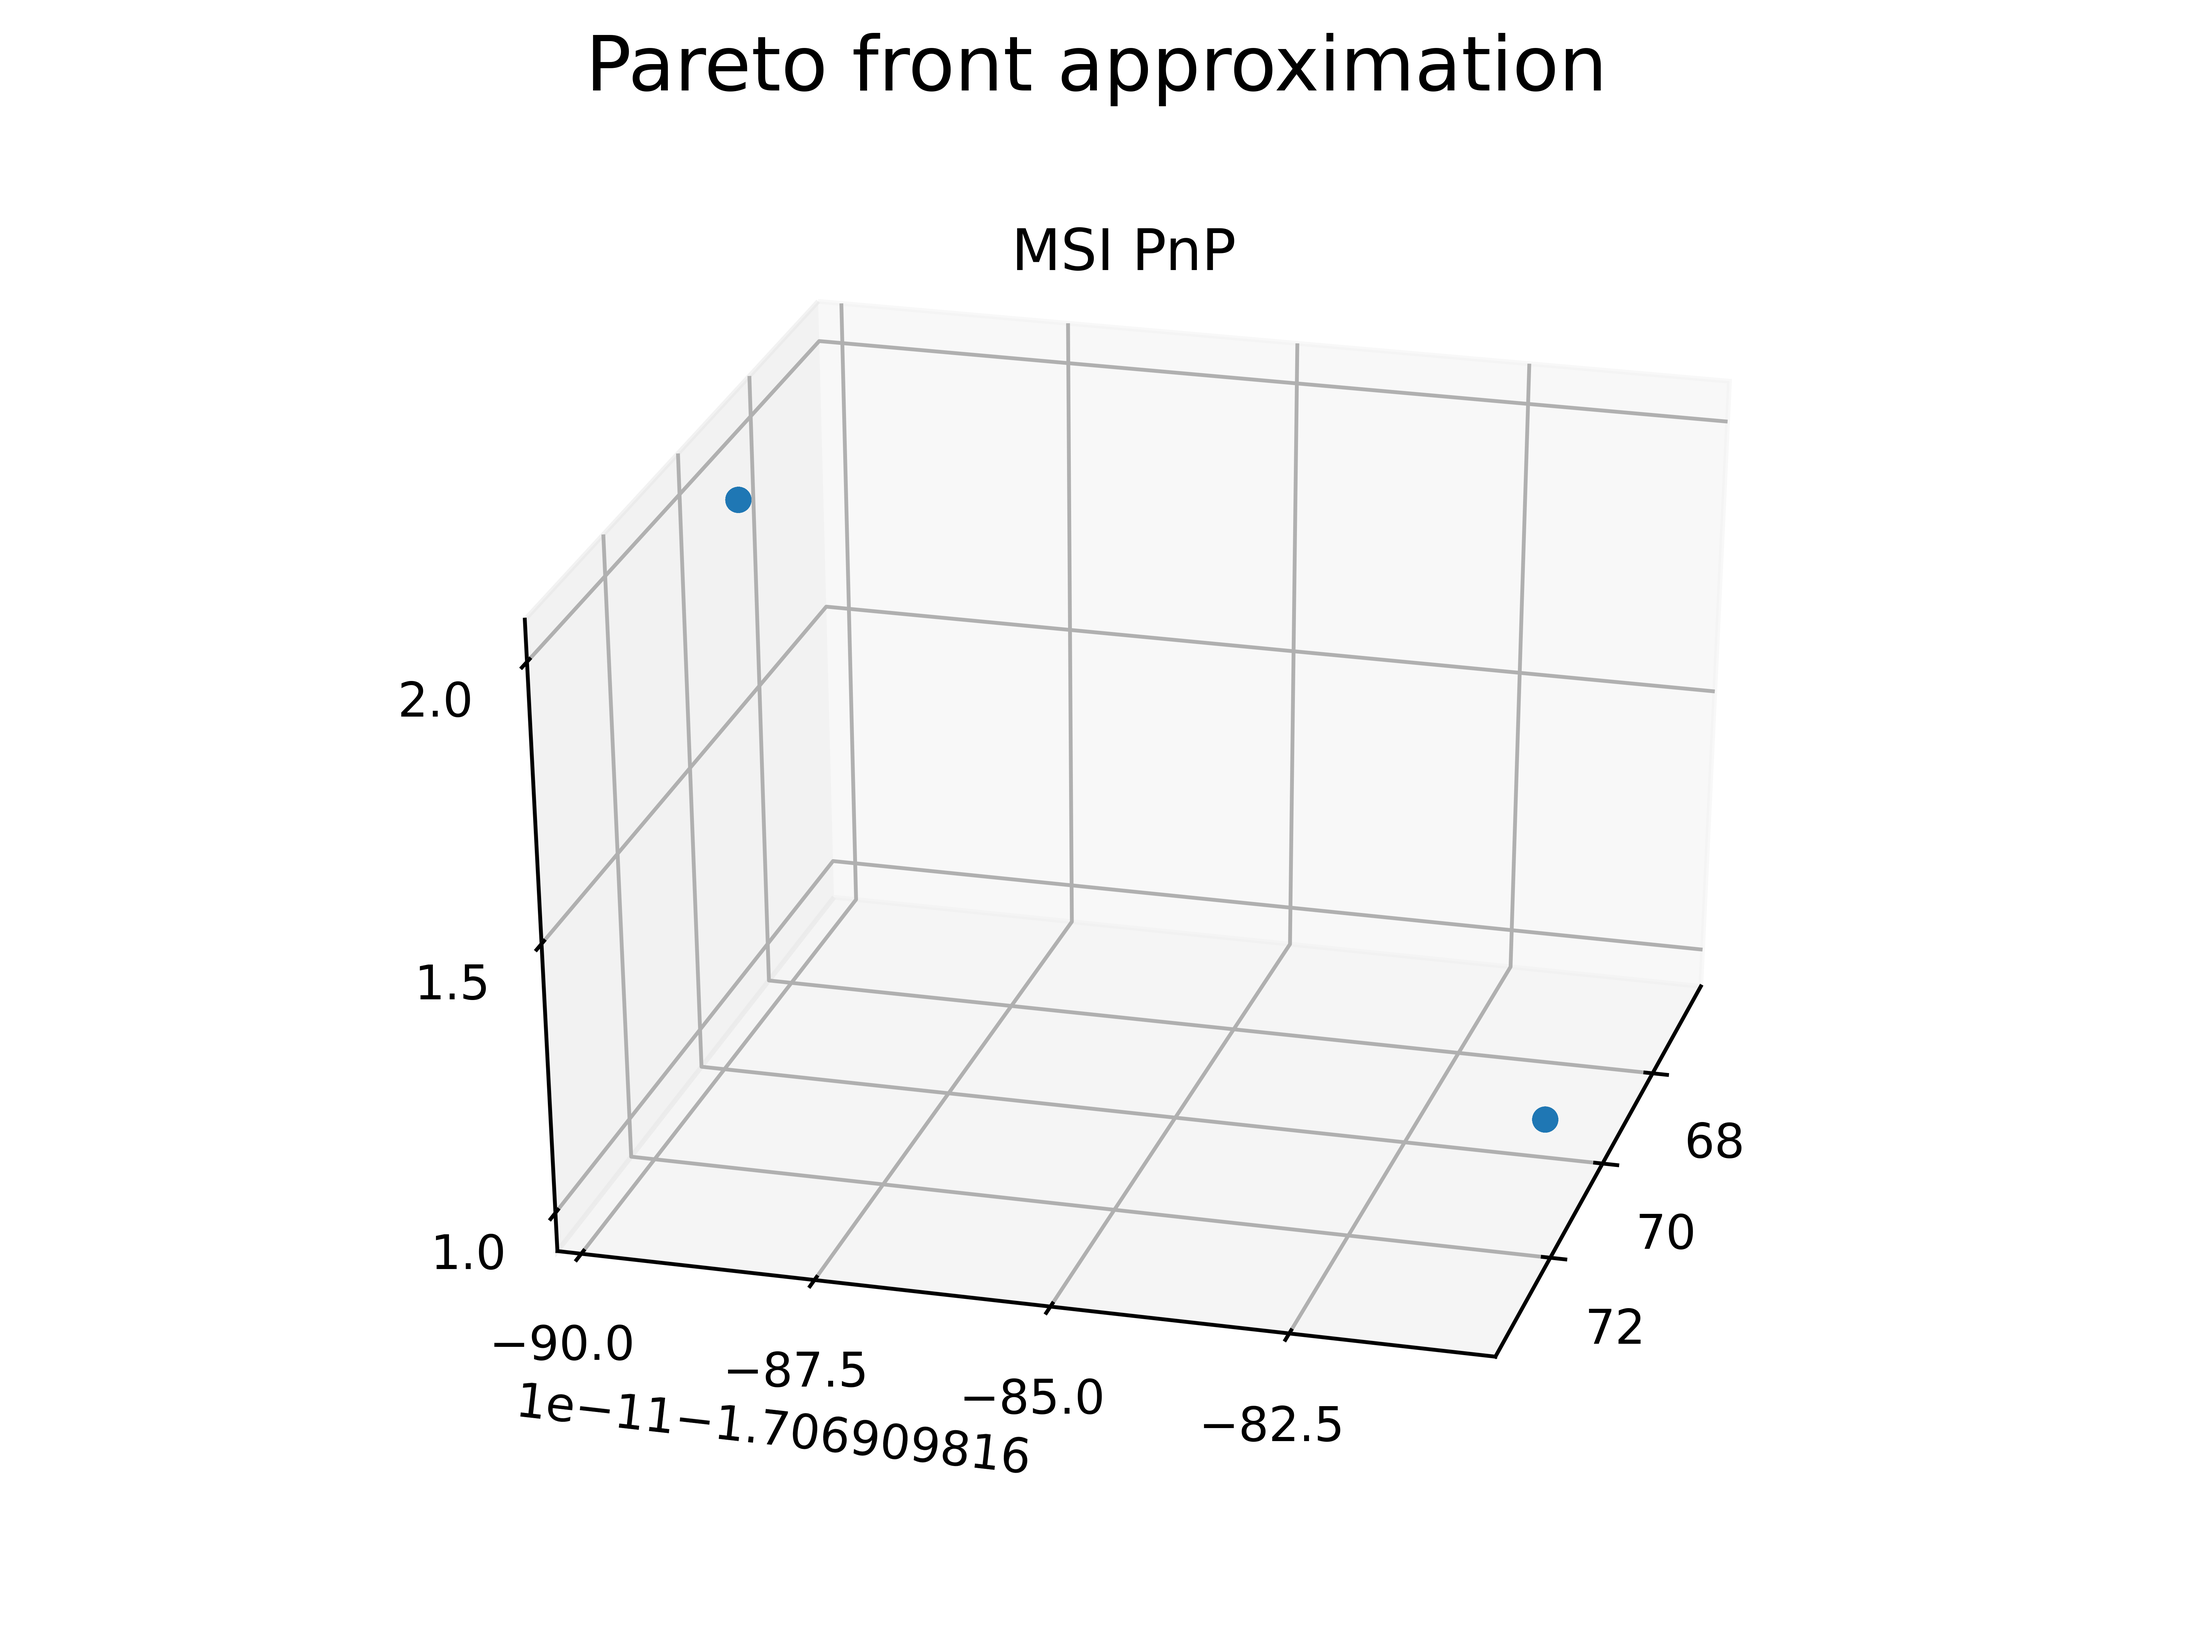
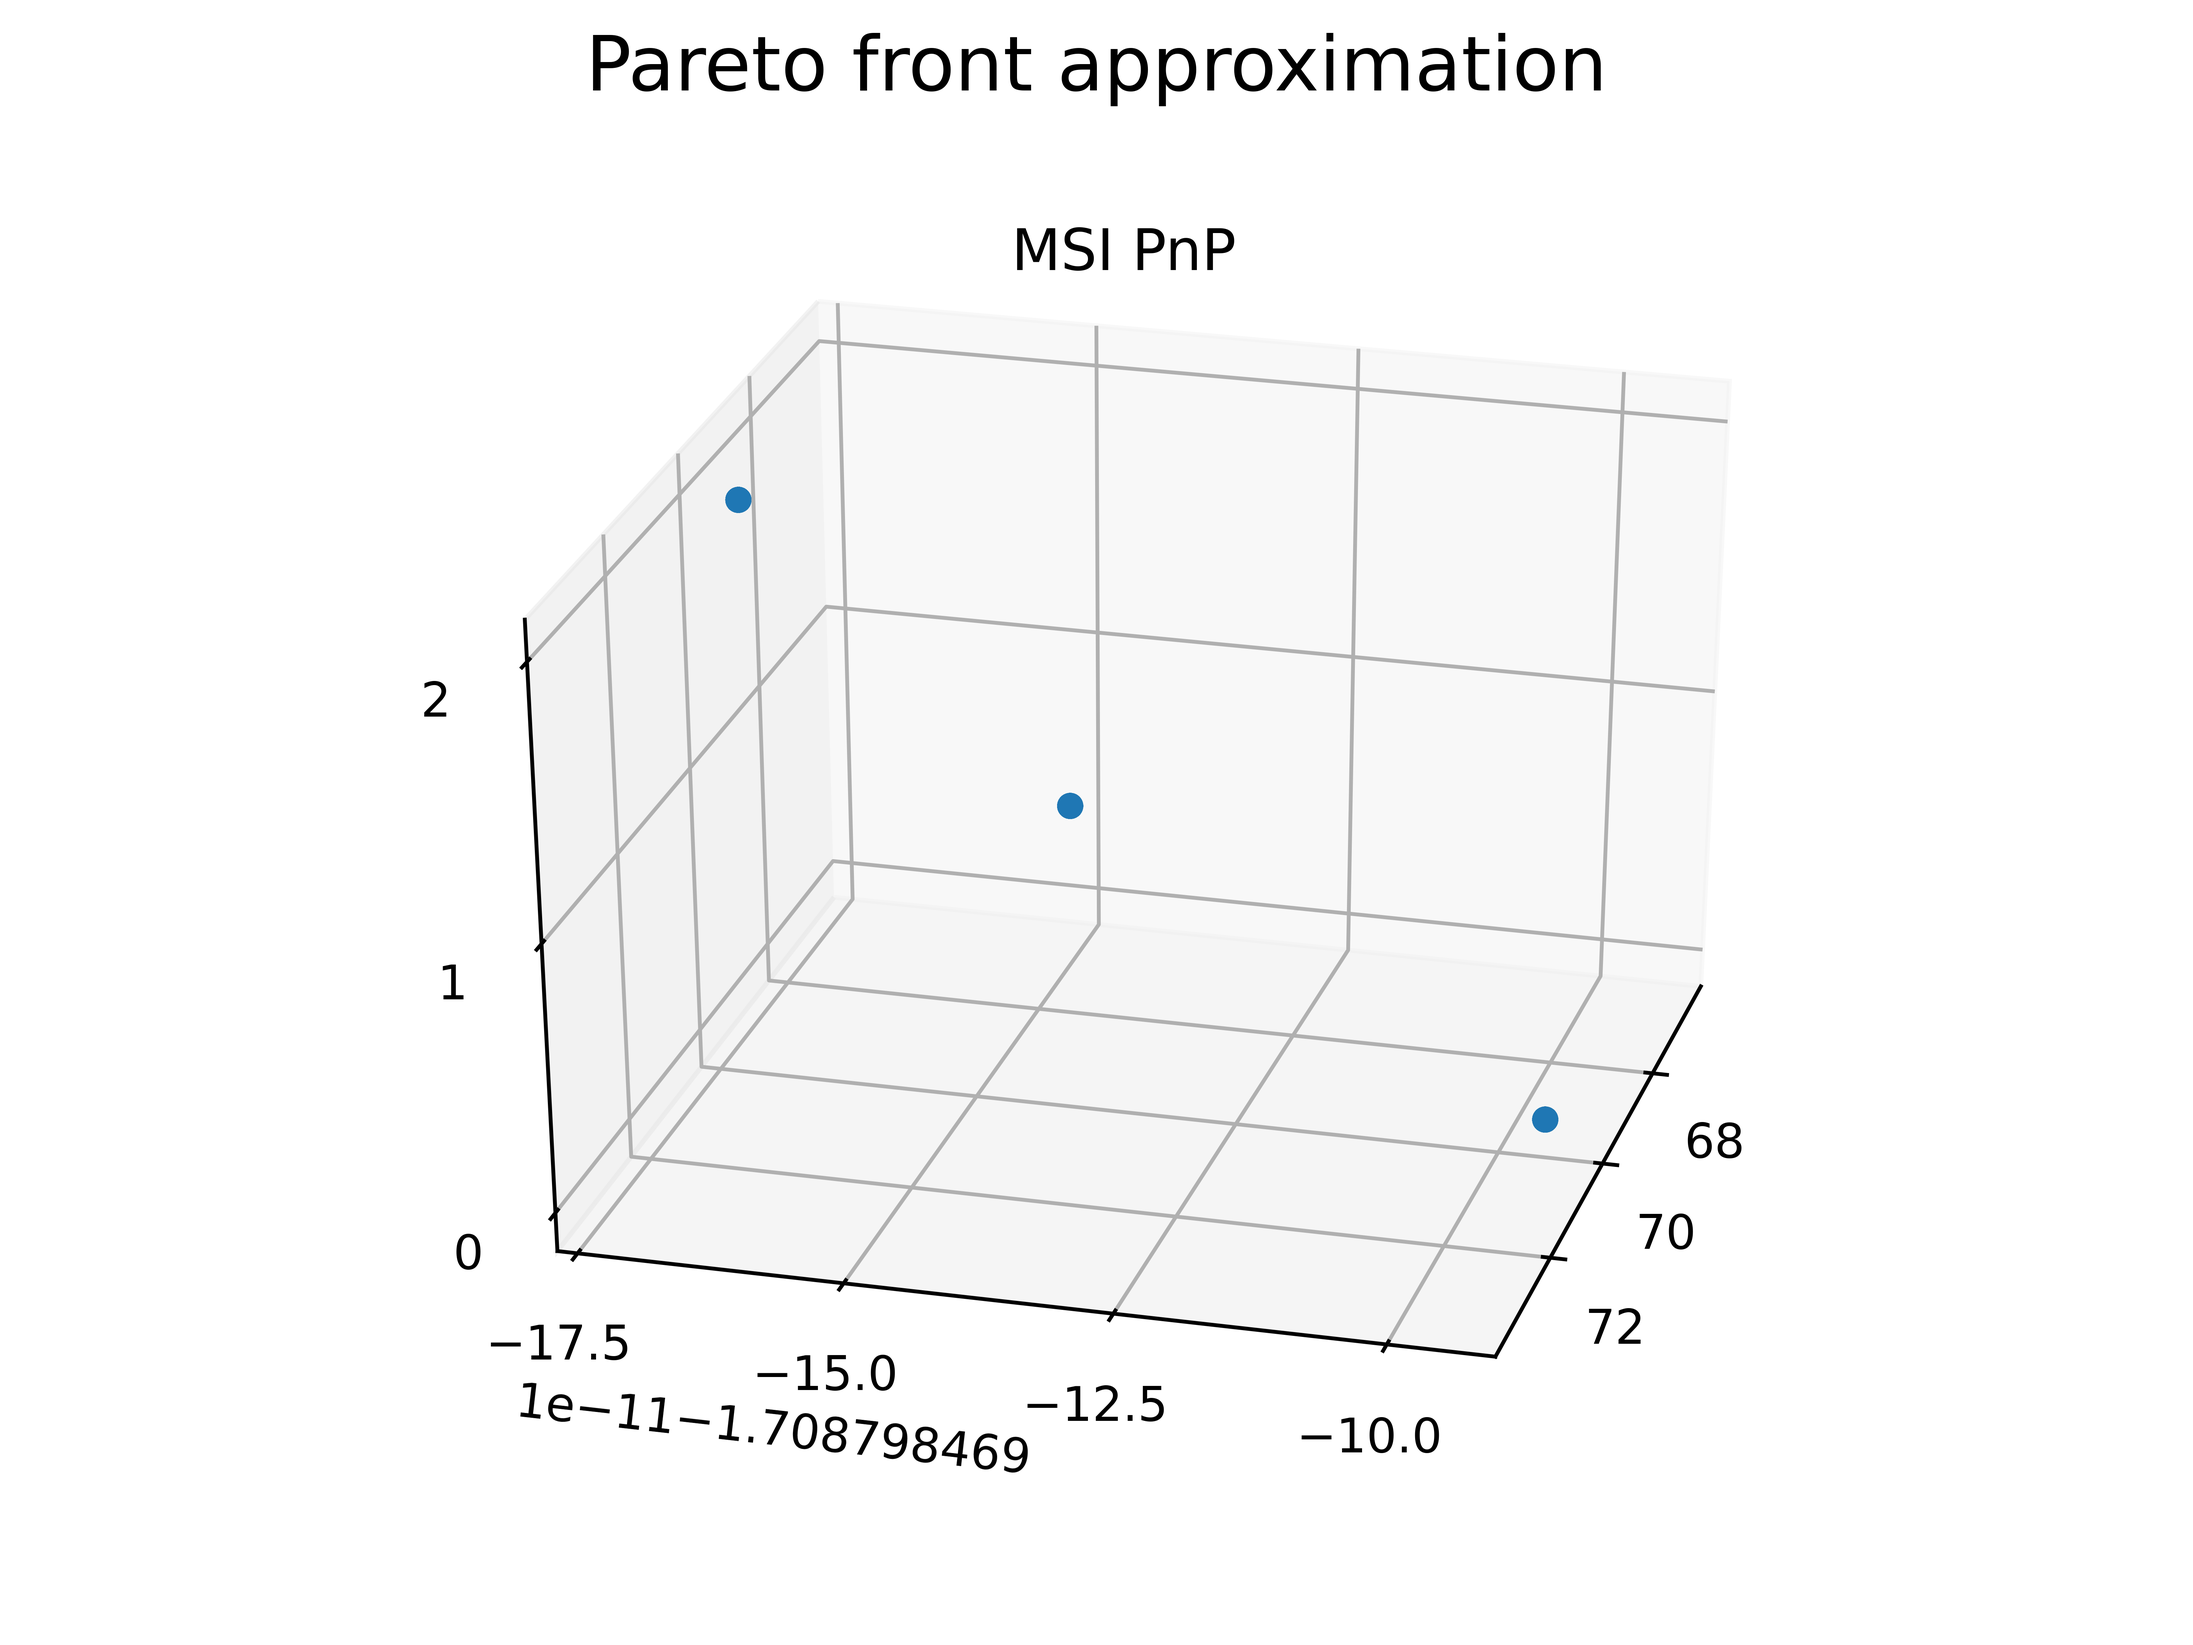
plot pareto front

diff --git a/decmopy/decmo/msi/msi_main.py b/decmopy/decmo/msi/msi_main.py
@@ -34,7 +34,7 @@ def main(argv):
          )
          problem.add_compressor(comp)
       
-      algorithm = DECMO(problem, individual_population_size=25, max_iterations=250)
+      algorithm = DECMO(problem, individual_population_size=50, max_iterations=250)
       results = algorithm.run()
       plot_front(results)
 
